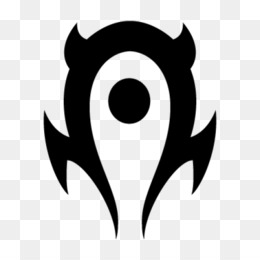
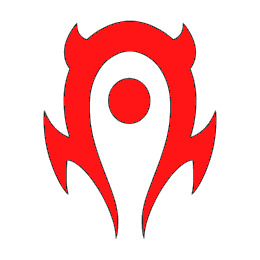
Added images, js, css, board and players are working

Changed region(s): [[0.1538, 0.0615, 0.8308, 0.8923], [0.4, 0.2769, 0.5846, 0.4923]]

diff --git a/index.html b/index.html
@@ -10,20 +10,18 @@
 </head>
 <body>
     <div class="container">
-        <!-- <h1>Tic Tac Toe</h1> -->
-        <div class="square-top-left" tabindex="0"><div class=""></div>
-        <div class="square-top-center" tabindex="0"><div class=""></div>
-        <div class="square-top-right" tabindex="0"><div class=""></div>
-        <div class="square-middle-left" tabindex="0"><div class=""></div>
-        <div class="square-center" tabindex="0"><div class=""></div>
-        <div class="square-middle-right" tabindex="0"><div class=""></div>
-        <div class="square-bottom-left" tabindex="0"><div class=""></div>
-        <div class="square-bottom-middle" tabindex="0"><div class=""></div>
-        <div class="square-bottom-right" tabindex="0"><div class=""></div>
+        <div class="board" id="board">
+            <div class="cell"></div>
+            <div class="cell"></div>
+            <div class="cell"></div>
+            <div class="cell"></div>
+            <div class="cell"></div>
+            <div class="cell"></div>
+            <div class="cell"></div>
+            <div class="cell"></div>
+            <div class="cell"></div>
+        </div>
 
-        <img class="background" src="images/background.png" alt="The playing board">
-        <!-- <img src="images/Horde.jpeg" alt="World of Warcraft Alliance Emblem">
-        <img src="images/Alliance.png" alt="World of Warcraft Horde Emblem"> -->
         <div class="score">
             <p class="player1"></p>
             <p class="tie"></p>

diff --git a/css/style.css b/css/style.css
@@ -1,9 +1,17 @@
-body {
-    background-color: purple;
-    text-align: center;
+:root {
+    --cell-size: 100px;
+
+    --color: #81c3fd;
+    --color-set: #0275d8;
+    --1: 10px;
 }
 
-img {
+body {
+    text-align: center;
+    margin: 0;
+}
+
+/* img {
     width: 120px;
     height: 120px;
     padding: 20px 0px 20px 0px;
@@ -15,17 +23,42 @@ img {
     display: block;
     margin-left: auto;
     margin-right: auto;
+} */
+
+.board {
+    width: 100vw;
+    height: 100vh;
+    display: grid;
+    justify-content: center;
+    align-content: center;
+    justify-items: center;
+    align-items: center;
+    grid-template-columns: repeat(3, auto);
 }
 
-.container {
-    max-width: 960px;
-    margin: 0 auto;
+.cell {
+    width: var(--cell-size);
+    height: var(--cell-size);
+    border: 1px solid black;
+    display: flex;
+    justify-content: center;
+    align-items: center;
+    position: relative;
+    cursor: pointer;
 }
-/* @media (max-width: 540px), (max-height: 630px)  */
+
+.horde {
+    background-image: url('../images/Horde.jpeg');
+    background-size: contain;
+    background-repeat: no-repeat;
+}
+
+.alliance {
+    background-image: url('../images/Alliance.ico');
+    background-size: contain;
+    background-repeat: no-repeat;
+}
+
 div {
-    display: block;
-}
-
-.square-top-left {
     display: block;
 }

diff --git a/js/tictactoe.js b/js/tictactoe.js
@@ -1,1 +1,23 @@
-console.log('Is this on??');
+let hordeTurn;
+const playerTurn = ['hordeTurn', 'allianceTurn'];
+
+const swapTurn = function() {
+    hordeTurn = !hordeTurn;
+}
+
+$(document).ready(function () {
+    $('.cell').on('click', function() {
+        console.log('cell clicked');
+
+        if (hordeTurn) {
+            const img = $(this).addClass('horde');
+            $(this).attr('src', img);
+            swapTurn();
+        } 
+        else {
+            const img = $(this).addClass('alliance');
+            $(this).attr('src', img);
+            swapTurn();
+        } 
+    });
+});
